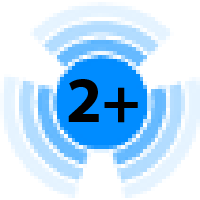
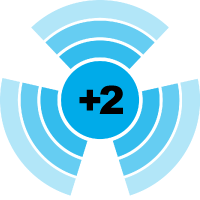
update markers, add info on click, fix level of clustering

diff --git a/lib/clustering_google_maps.dart b/lib/clustering_google_maps.dart
@@ -134,18 +134,16 @@ class ClusteringHelper {
       level = 1;
     } else if (zoom < 5) {
       level = 2;
-    } else if (zoom < 7) {
+    } else if (zoom < 7.5) {
       level = 3;
-    } else if (zoom < 10) {
+    } else if (zoom < 10.5) {
       level = 4;
-    } else if (zoom < 11) {
-      level = 5;
     } else if (zoom < 13) {
-      level = 6;
+      level = 5;
     } else if (zoom < 13.5) {
-      level = 7;
+      level = 6;
     } else if (zoom < 14.5) {
-      level = 8;
+      level = 7;
     }
 
     try {
@@ -205,23 +203,40 @@ class ClusteringHelper {
         } else {
           bitmapDescriptor = BitmapDescriptor.defaultMarker;
         }
-      } else if (a.count < 20) {
+      } else if (a.count < 10) {
+        // + 2
         bitmapDescriptor = BitmapDescriptor.fromAsset("assets/images/m1.png",
             package: "clustering_google_maps");
-      } else if (a.count < 100) {
+      } else if (a.count < 25) {
+        // + 10
         bitmapDescriptor = BitmapDescriptor.fromAsset("assets/images/m2.png",
             package: "clustering_google_maps");
-      } else if (a.count < 1000) {
+      } else if (a.count < 50) {
+        // + 25
         bitmapDescriptor = BitmapDescriptor.fromAsset("assets/images/m3.png",
             package: "clustering_google_maps");
-      } else {
+      } else if (a.count < 100) {
+        // + 50
         bitmapDescriptor = BitmapDescriptor.fromAsset("assets/images/m4.png",
+            package: "clustering_google_maps");
+      } else if (a.count < 500) {
+        // + 100
+        bitmapDescriptor = BitmapDescriptor.fromAsset("assets/images/m5.png",
+            package: "clustering_google_maps");
+      } else if (a.count < 1000) {
+        // +500
+        bitmapDescriptor = BitmapDescriptor.fromAsset("assets/images/m6.png",
+            package: "clustering_google_maps");
+      } else {
+        // + 1k
+        bitmapDescriptor = BitmapDescriptor.fromAsset("assets/images/m7.png",
             package: "clustering_google_maps");
       }
 
       mapController.addMarker(MarkerOptions(
         position: a.location,
         icon: bitmapDescriptor,
+        infoWindowText: InfoWindowText(a.count.toString(), null)
       ));
     });
   }

diff --git a/lib/src/db_helper.dart b/lib/src/db_helper.dart
@@ -3,7 +3,6 @@ import 'package:clustering_google_maps/src/lat_lang_geohash.dart';
 import 'package:sqflite/sqflite.dart';
 
 class DBHelper {
-
   static Future<List<AggregatedPoints>> getAggregatedPoints(
       Database database,
       String dbTable,
@@ -15,7 +14,7 @@ class DBHelper {
     try {
       var result = await database.rawQuery(
           'SELECT COUNT(*) as n_marker, AVG($dbLatColumn) as lat,  AVG($dbLongColumn) as long '
-              'FROM $dbTable GROUP BY substr($dbGeohashColumn,1,$level);');
+          'FROM $dbTable GROUP BY substr($dbGeohashColumn,1,$level);');
 
       List<AggregatedPoints> aggregatedPoints = new List();
 
@@ -34,14 +33,15 @@ class DBHelper {
   }
 
   static Future<List<LatLngAndGeohash>> getPoints(
-      Database database,
-      String dbTable,
-      String dbLatColumn,
-      String dbLongColumn,) async {
-
+    Database database,
+    String dbTable,
+    String dbLatColumn,
+    String dbLongColumn,
+  ) async {
     try {
-      var result = await database.rawQuery('SELECT $dbLatColumn as lat, $dbLongColumn as long '
-          'FROM $dbTable;');
+      var result = await database
+          .rawQuery('SELECT $dbLatColumn as lat, $dbLongColumn as long '
+              'FROM $dbTable;');
       List<LatLngAndGeohash> points = new List();
       for (Map<String, dynamic> item in result) {
         var p = new LatLngAndGeohash.fromMap(item);
@@ -54,5 +54,4 @@ class DBHelper {
       return List<LatLngAndGeohash>();
     }
   }
-
 }

diff --git a/CHANGELOG.md b/CHANGELOG.md
@@ -1,3 +1,9 @@
+## 0.0.1+2
+
+* Add new marker for new level of aggregation.
+* Fix level for aggregation/disgregation
+* Add InfoWindowText on aggregated marker with number of points
+
 ## 0.0.1
 
 * Initial developers preview release.
